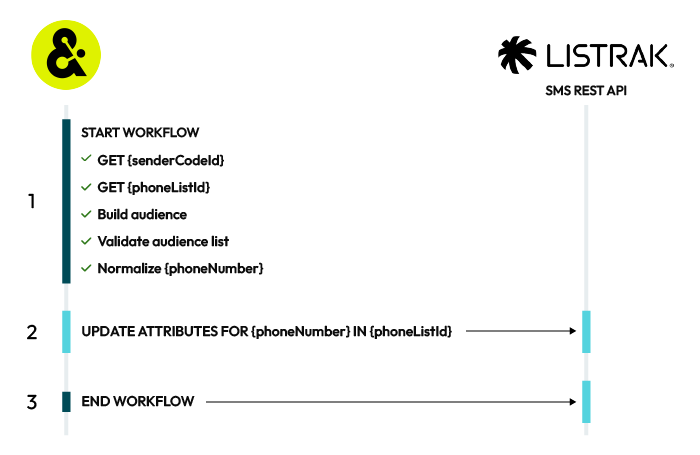
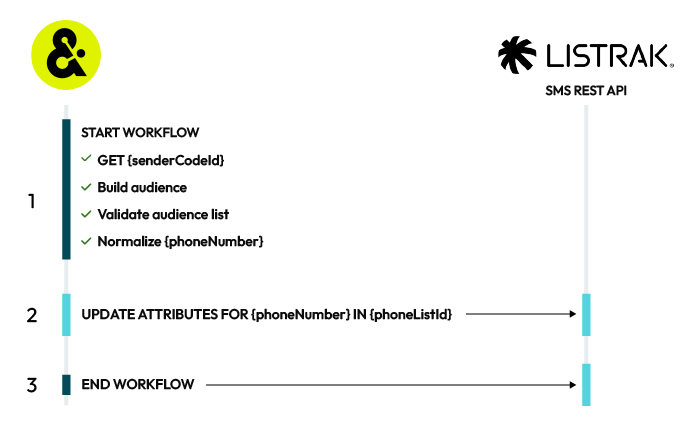
fix image, remove matching attributes section, clarify underscores

diff --git a/amperity_user/source/destination_listrak_sms_profile.rst b/amperity_user/source/destination_listrak_sms_profile.rst
@@ -73,6 +73,16 @@ An SMS profile in |destination-name| requires only a phone number, but may inclu
 
 .. sendto-listrak-sms-profile-build-query-fields-end
 
+.. sendto-listrak-sms-profile-build-query-fields-replace-underscores-start
+
+Replace spaces in `custom SMS profile field names <https://help.listrak.com/en/articles/[phone redacted]-sms-profile-fields-and-personalization-guide>`__ |ext_link| with underscores in the Amperity SQL query. For example, a custom SMS profile field is named "Loyalty Tier" in |destination-name|. Alias the field name in the query using underscores:
+
+.. code-block:: sql
+
+   current_tier AS Loyalty_Tier
+
+.. sendto-listrak-sms-profile-build-query-fields-replace-underscores-end
+
 .. include:: ../../amperity_operator/source/destination_listrak_sms_profile.rst
    :start-after: .. destination-listrak-sms-profile-howitworks-optin-start
    :end-before: .. destination-listrak-sms-profile-howitworks-optin-end
@@ -87,23 +97,21 @@ An SMS profile in |destination-name| requires only a phone number, but may inclu
    WITH sms_opt_status AS (
      SELECT
        so.amperity_id
-       ,so.phone
        ,so.is_sms_opted_in
      FROM SMS_Opt_Status so
    )
 
    SELECT
-     co.amperity_id
-     ,co.Phone AS "Phone"
-     ,co.Email AS "Email Address"
-     ,co.FirstName AS "First Name"
-     ,co.LastName AS "Last Name"
-     ,co.PostalCode AS "Postal Code"
-     ,co.Birthdate AS "Birthday"
-     ,co.LoyaltyTier AS "Loyalty"
-   FROM Customer360 co
-   LEFT JOIN SMS_Opt_Status so ON co.amperity_id = so.amperity_id
-   WHERE is_sms_opted_in = true
+     co.phone
+     ,co.email AS "Email Address"
+     ,co.given_name AS "First Name"
+     ,co.surname AS "Last Name"
+     ,co.postal AS "Postal Code"
+     ,co.birthdate AS "Birthday"
+     ,co.current_tier AS Loyalty_Tier
+   FROM Customer_360 co
+   JOIN sms_opt_status so ON co.amperity_id = so.amperity_id
+   WHERE so.is_sms_opted_in = true
 
 .. sendto-listrak-sms-profile-build-query-end
 

diff --git a/amperity_operator/source/destination_listrak_sms_profile.rst b/amperity_operator/source/destination_listrak_sms_profile.rst
@@ -250,19 +250,13 @@ Use system attributes to personalize messages, such as adding a first name to an
 
 **Custom attributes**
 
-Enable the **Include attributes that match custom profile fields** field to sychronize all profile attributes in Amperity that match custom profile fields defined in |destination-name|.
-
-.. include:: ../../shared/destination_settings.rst
-   :start-after: .. setting-listrak-sms-enable-segmentation-caveat-start
-   :end-before: .. setting-listrak-sms-enable-segmentation-caveat-end
-
-|destination-name| supports up to fifty custom SMS profile attributes. Use these to define additional SMS profile attributes to support your brand's use cases.
-
-.. important:: Each custom attribute must be defined in |destination-name| before Amperity can send them with SMS profiles.
-
-Custom attributes must be one of the following data types: `Checkbox, Date, Number, or Text <https://help.listrak.com/en/articles/[phone redacted]-sms-profile-fields-and-personalization-guide#custom-profile-fields>`__ |ext_link|. Any custom attributes sent from Amperity must match one of these data types.
+Custom attributes sent from Amperity must match custom attributes that already exist in |destination-name|.
 
 .. destination-listrak-sms-profile-attributes-end
+
+.. include:: ../../amperity_user/source/destination_listrak_sms_profile.rst
+   :start-after: .. sendto-listrak-sms-profile-build-query-fields-replace-underscores-start
+   :end-before: .. sendto-listrak-sms-profile-build-query-fields-replace-underscores-end
 
 
 .. _destination-listrak-sms-profile-credentials:
@@ -424,16 +418,6 @@ Add destination
           .. include:: ../../shared/destination_settings.rst
              :start-after: .. setting-common-audience-primary-key-start
              :end-before: .. setting-common-audience-primary-key-end
-
-       **Include attributes that match custom profile fields**
-
-          .. include:: ../../shared/destination_settings.rst
-             :start-after: .. setting-listrak-sms-enable-segmentation-start
-             :end-before: .. setting-listrak-sms-enable-segmentation-end
-
-          .. include:: ../../shared/destination_settings.rst
-             :start-after: .. setting-listrak-sms-enable-segmentation-caveat-start
-             :end-before: .. setting-listrak-sms-enable-segmentation-caveat-end
 
 
    * - .. image:: ../../images/steps-05.png